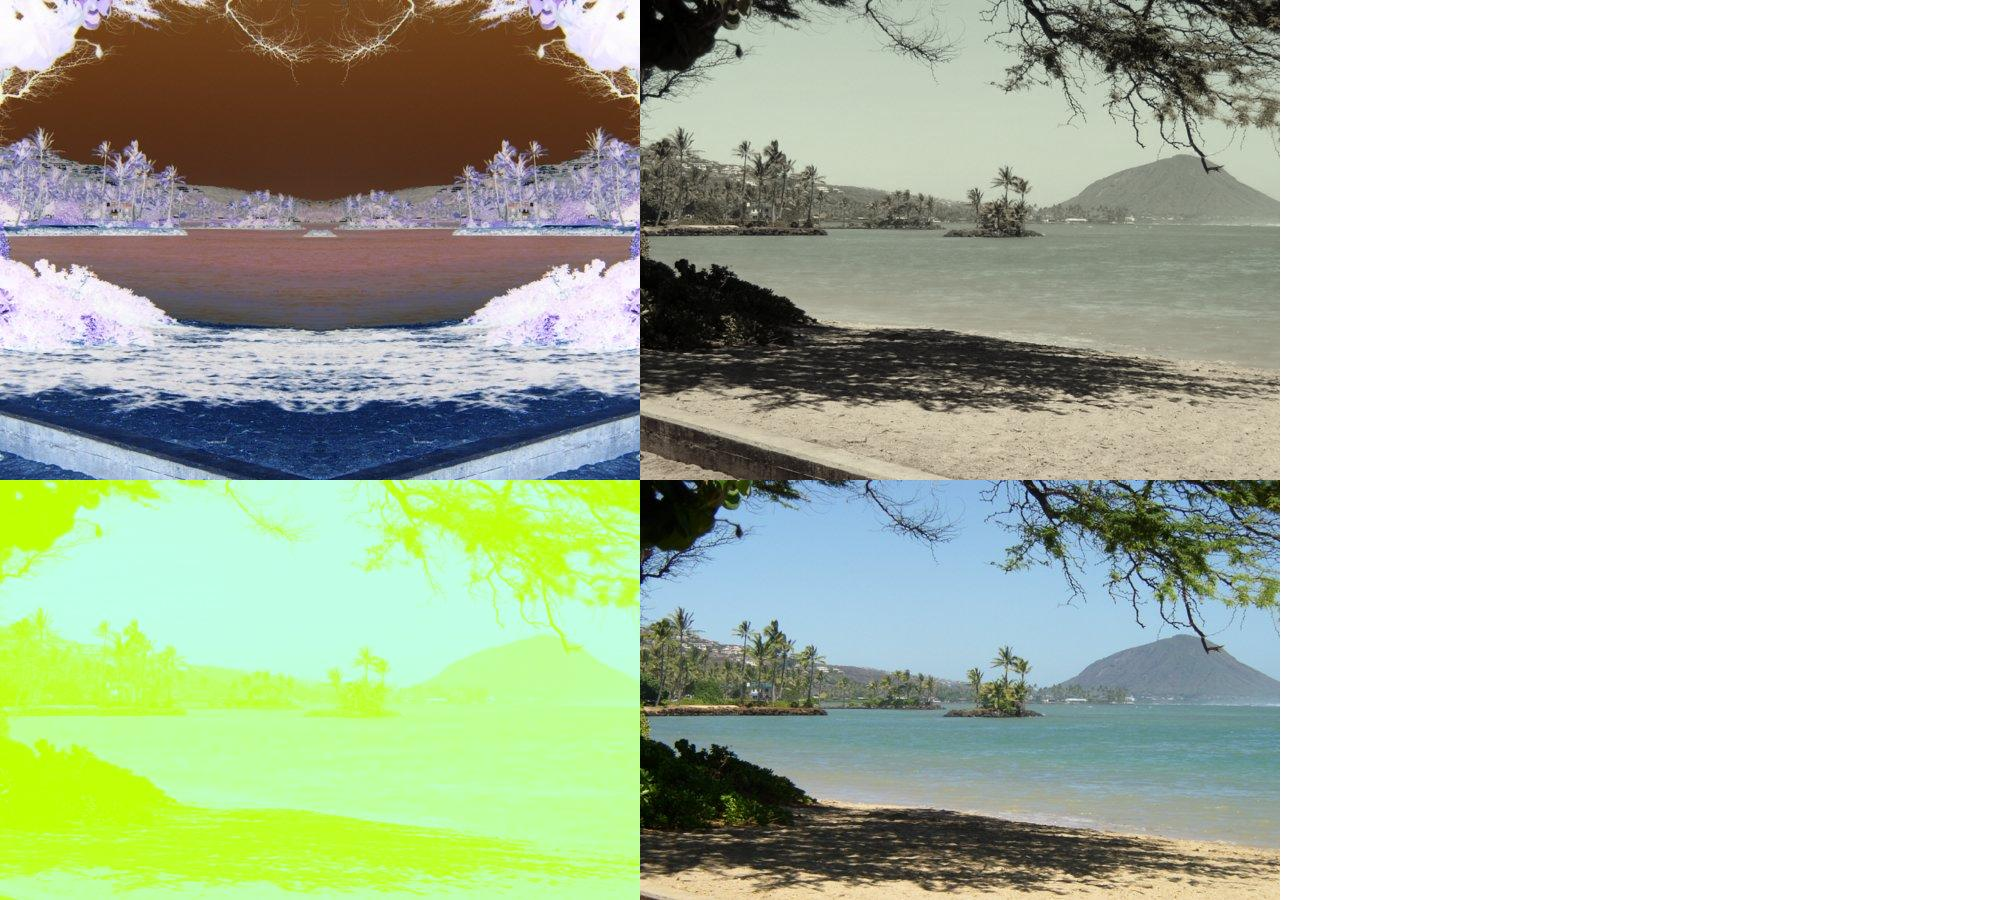
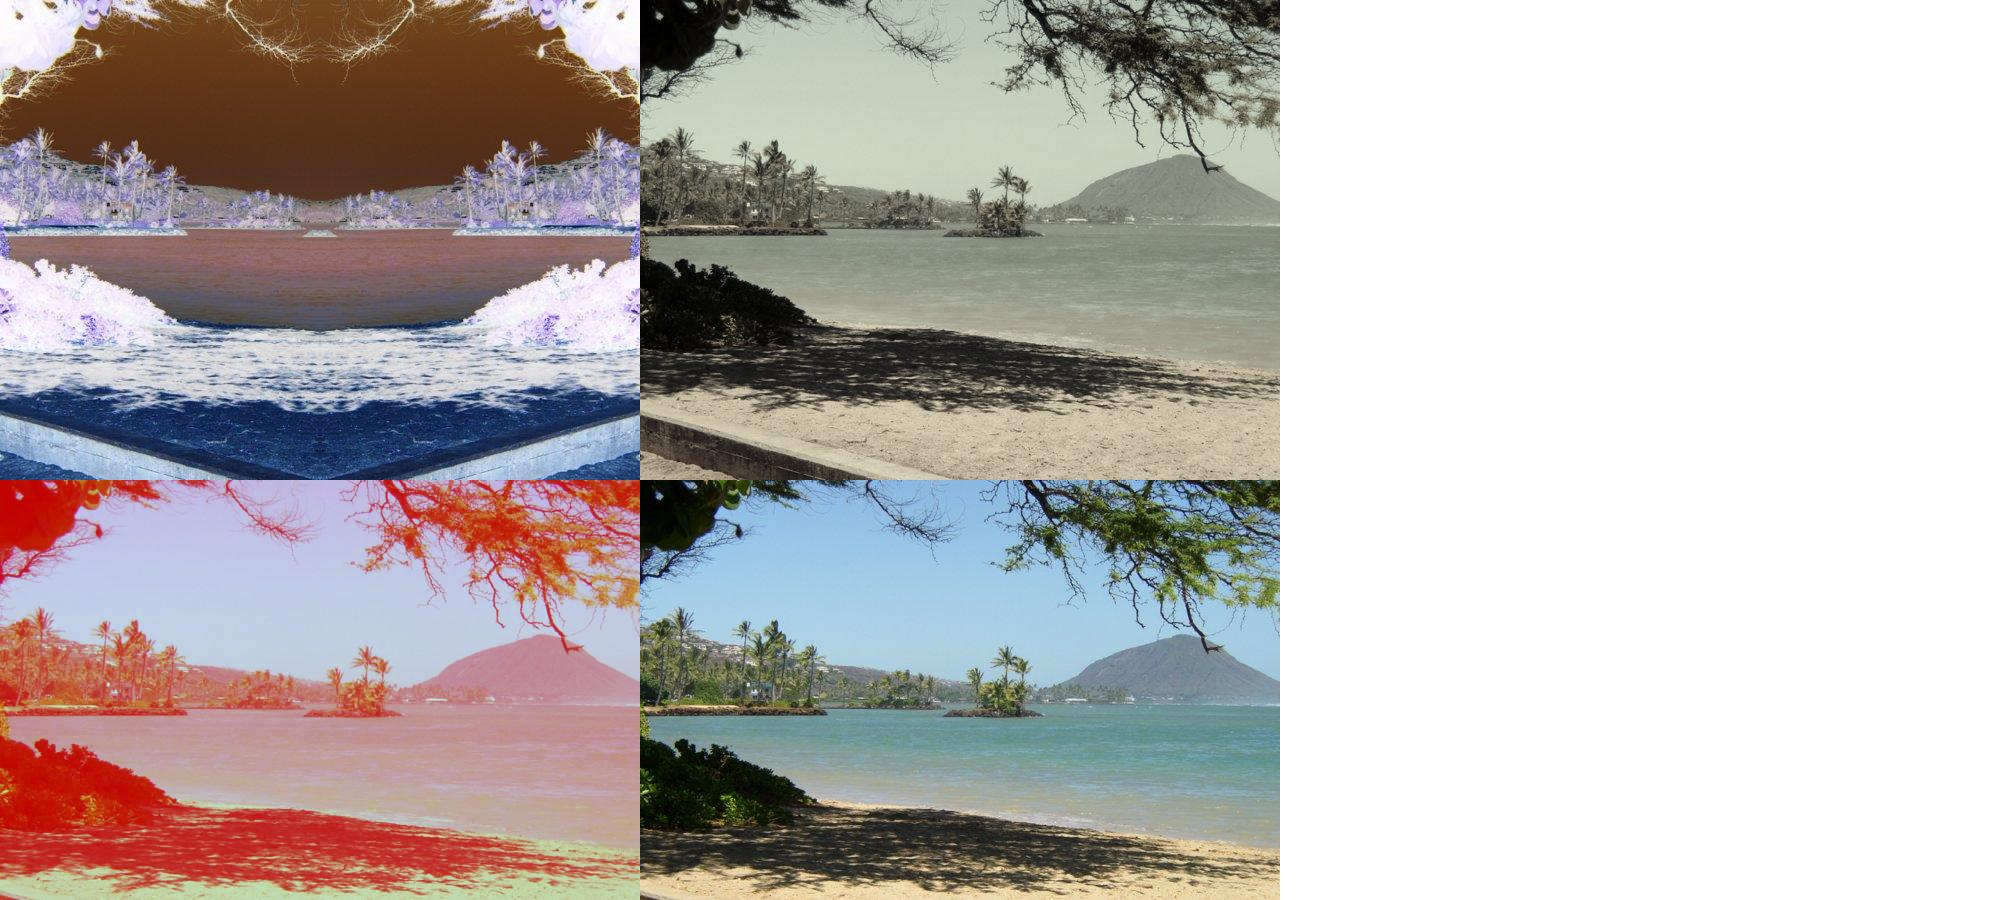
Collage
Finished with Collage

Changed region(s): [[0.0, 0.5289, 0.341, 1.0]]

diff --git a/PictureLab/classes/Picture.java b/PictureLab/classes/Picture.java
@@ -5,6 +5,7 @@ import java.awt.image.BufferedImage;
 import java.text.*;
 import java.util.*;
 import java.util.List; // resolves problem with java.awt.List and java.util.List
+import java.awt.Color;
 
 /**
  * A class that represents a picture.  This class inherits from 
@@ -169,13 +170,14 @@ public class Picture extends SimplePicture
     }
   }
   
+
   /** Method that scales a picture down by fifty percent */
   public void scaleByHalf()
   {
       Pixel[][] pixels = this.getPixels2D();
       Pixel[][] pixels2 = this.getPixels2D();
       int scalePercent = 2;
-      for(int row = 0; row < pixels.length; row+)
+      for(int row = 0; row < pixels.length; row++)
       {
           for(int col = 0; col < pixels[0].length; col+=2)
           {
@@ -184,6 +186,9 @@ public class Picture extends SimplePicture
       }
   }
   
+
+
+
   public void mirrorVerticalRightToLeft()
   {
     Pixel[][] pixels = this.getPixels2D();
@@ -342,7 +347,61 @@ public class Picture extends SimplePicture
       }
     }   
   }
-
+ 
+  /** Method to turn the pictures into shades of grey */
+  public void grayScale()
+  {
+      Pixel[][] pixels = this.getPixels2D();
+      for (Pixel[] rowArray : pixels)
+      {
+          for (Pixel pixelObj : rowArray)
+          {
+              pixelObj.setRed((pixelObj.getRed()+pixelObj.getBlue()+pixelObj.getGreen())/3);
+              pixelObj.setGreen((pixelObj.getRed()+pixelObj.getBlue()+pixelObj.getGreen())/3);
+              pixelObj.setBlue((pixelObj.getRed()+pixelObj.getBlue()+pixelObj.getGreen())/3);
+          }
+      } 
+      
+  }
+  
+  public void sepia()
+  {
+      Pixel[][] pixels = this.getPixels2D();
+      for (Pixel[] rowArray : pixels)
+      {
+          for (Pixel pixelObj : rowArray)
+          {
+              if(pixelObj.getRed() < 60)
+              {
+                  pixelObj.setRed((int)(pixelObj.getRed() * 0.9));
+                  pixelObj.setGreen((int)(pixelObj.getGreen() * 0.9));
+                  pixelObj.setBlue((int)(pixelObj.getBlue() * 0.9));
+              }
+              else if(pixelObj.getRed() < 190)
+              {
+                  pixelObj.setBlue((int)(pixelObj.getBlue() * 0.9));
+              }
+              else
+              {
+                  pixelObj.setBlue((int)(pixelObj.getBlue() * 0.9));
+              }
+          }
+      } 
+  }
+  
+  public void posterize()
+  {
+      Pixel[][] pixels = this.getPixels2D();
+      for (Pixel[] rowArray : pixels)
+      {
+          for (Pixel pixelObj : rowArray)
+          {
+              pixelObj.setRed(192);
+              //pixelObj.setBlue(192);
+          }
+      } 
+  }
+  
   /** Method to create a collage of several pictures */
   public void createCollage()
   {
@@ -360,8 +419,19 @@ public class Picture extends SimplePicture
     this.mirrorVertical();
     this.write("collage.jpg");
     */
-    Picture beach = new Picture("beach.jpg");
-    this.copy(beach,0,0);
+    Picture beach1 = new Picture("beach.jpg");
+    Picture beach2 = new Picture("beach.jpg");
+    Picture beach3 = new Picture("beach.jpg");
+    Picture beach4 = new Picture("beach.jpg");
+    beach1.negate();
+    beach1.mirrorVertical();
+    beach2.posterize();
+    beach3.grayScale();
+    beach3.sepia();
+    this.copy(beach1,0,0);
+    this.copy(beach2,480,0);
+    this.copy(beach3,0,640);
+    this.copy(beach4,480,640);
     this.write("myCollage.jpg");
   }
   
